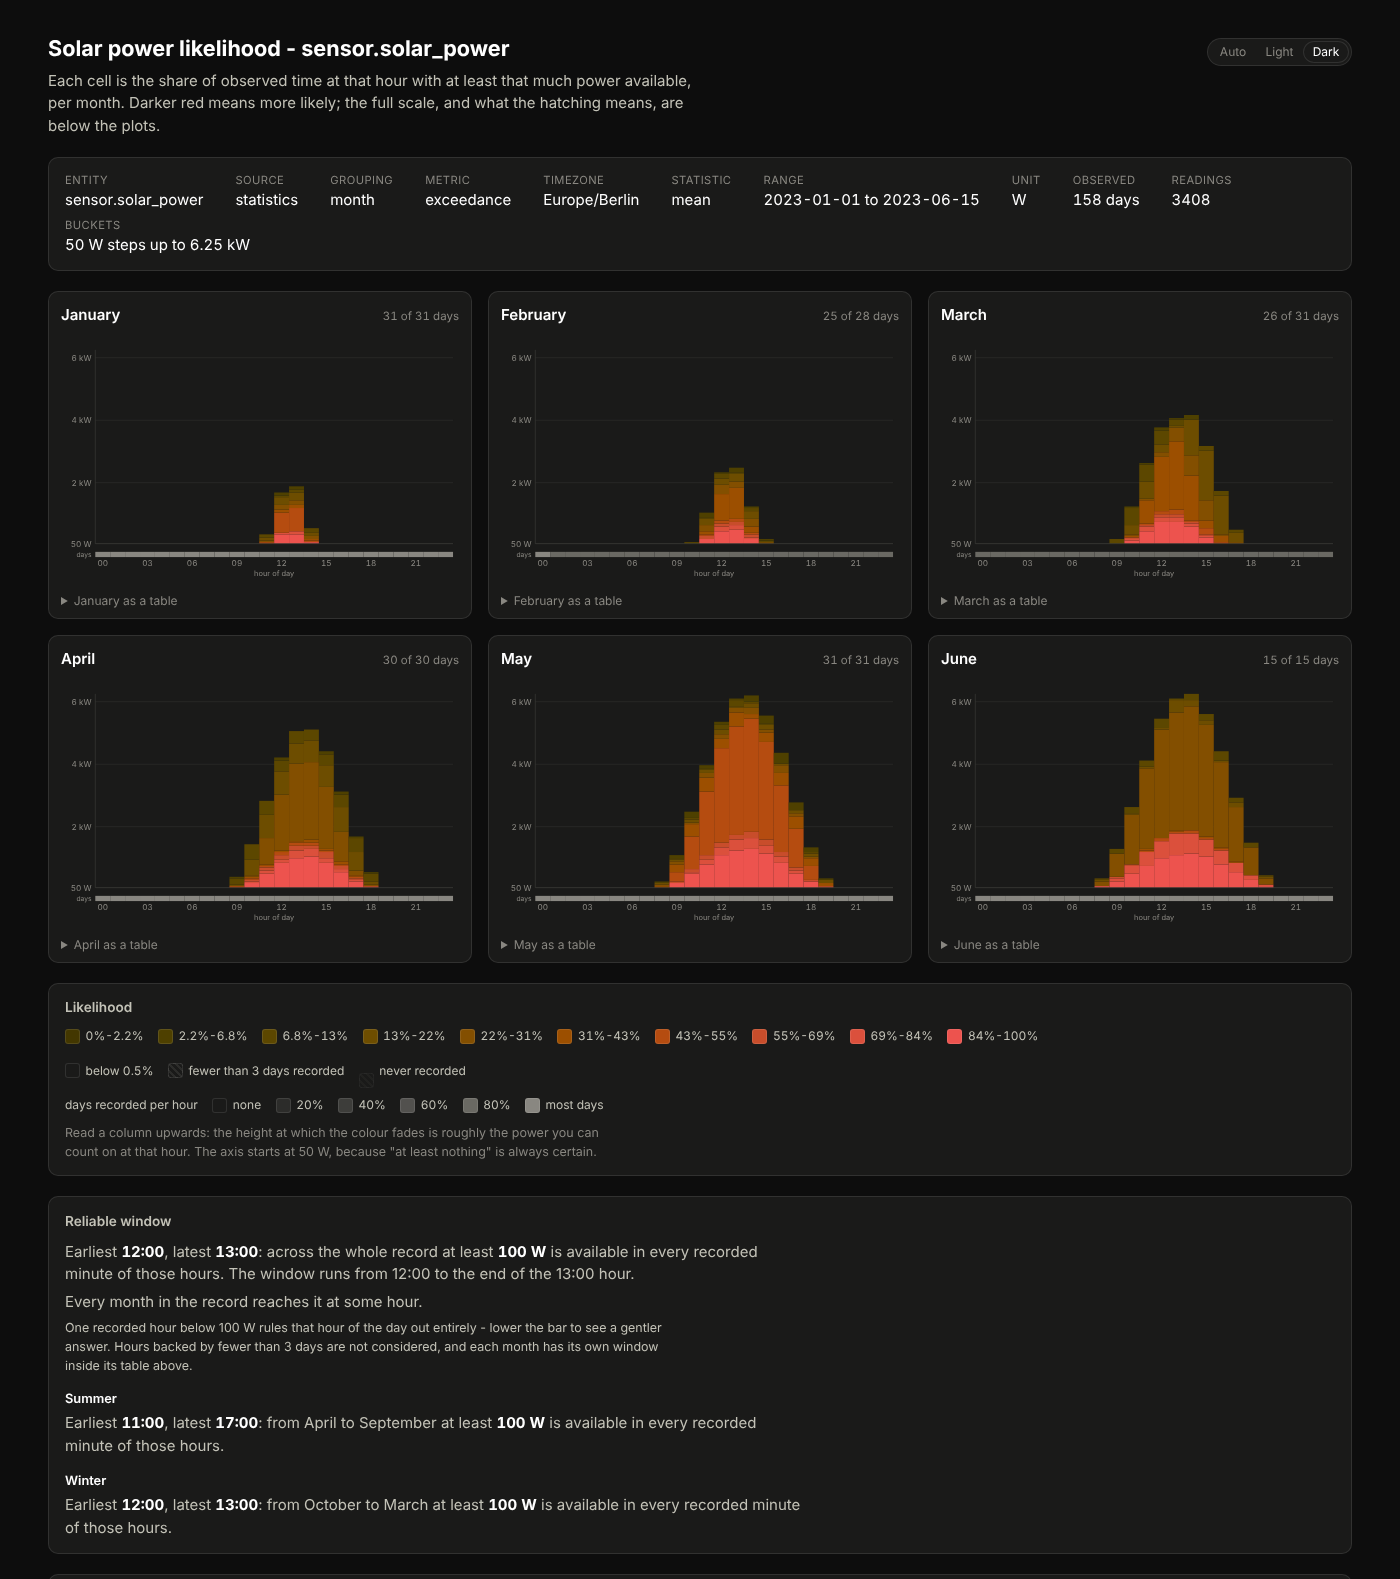
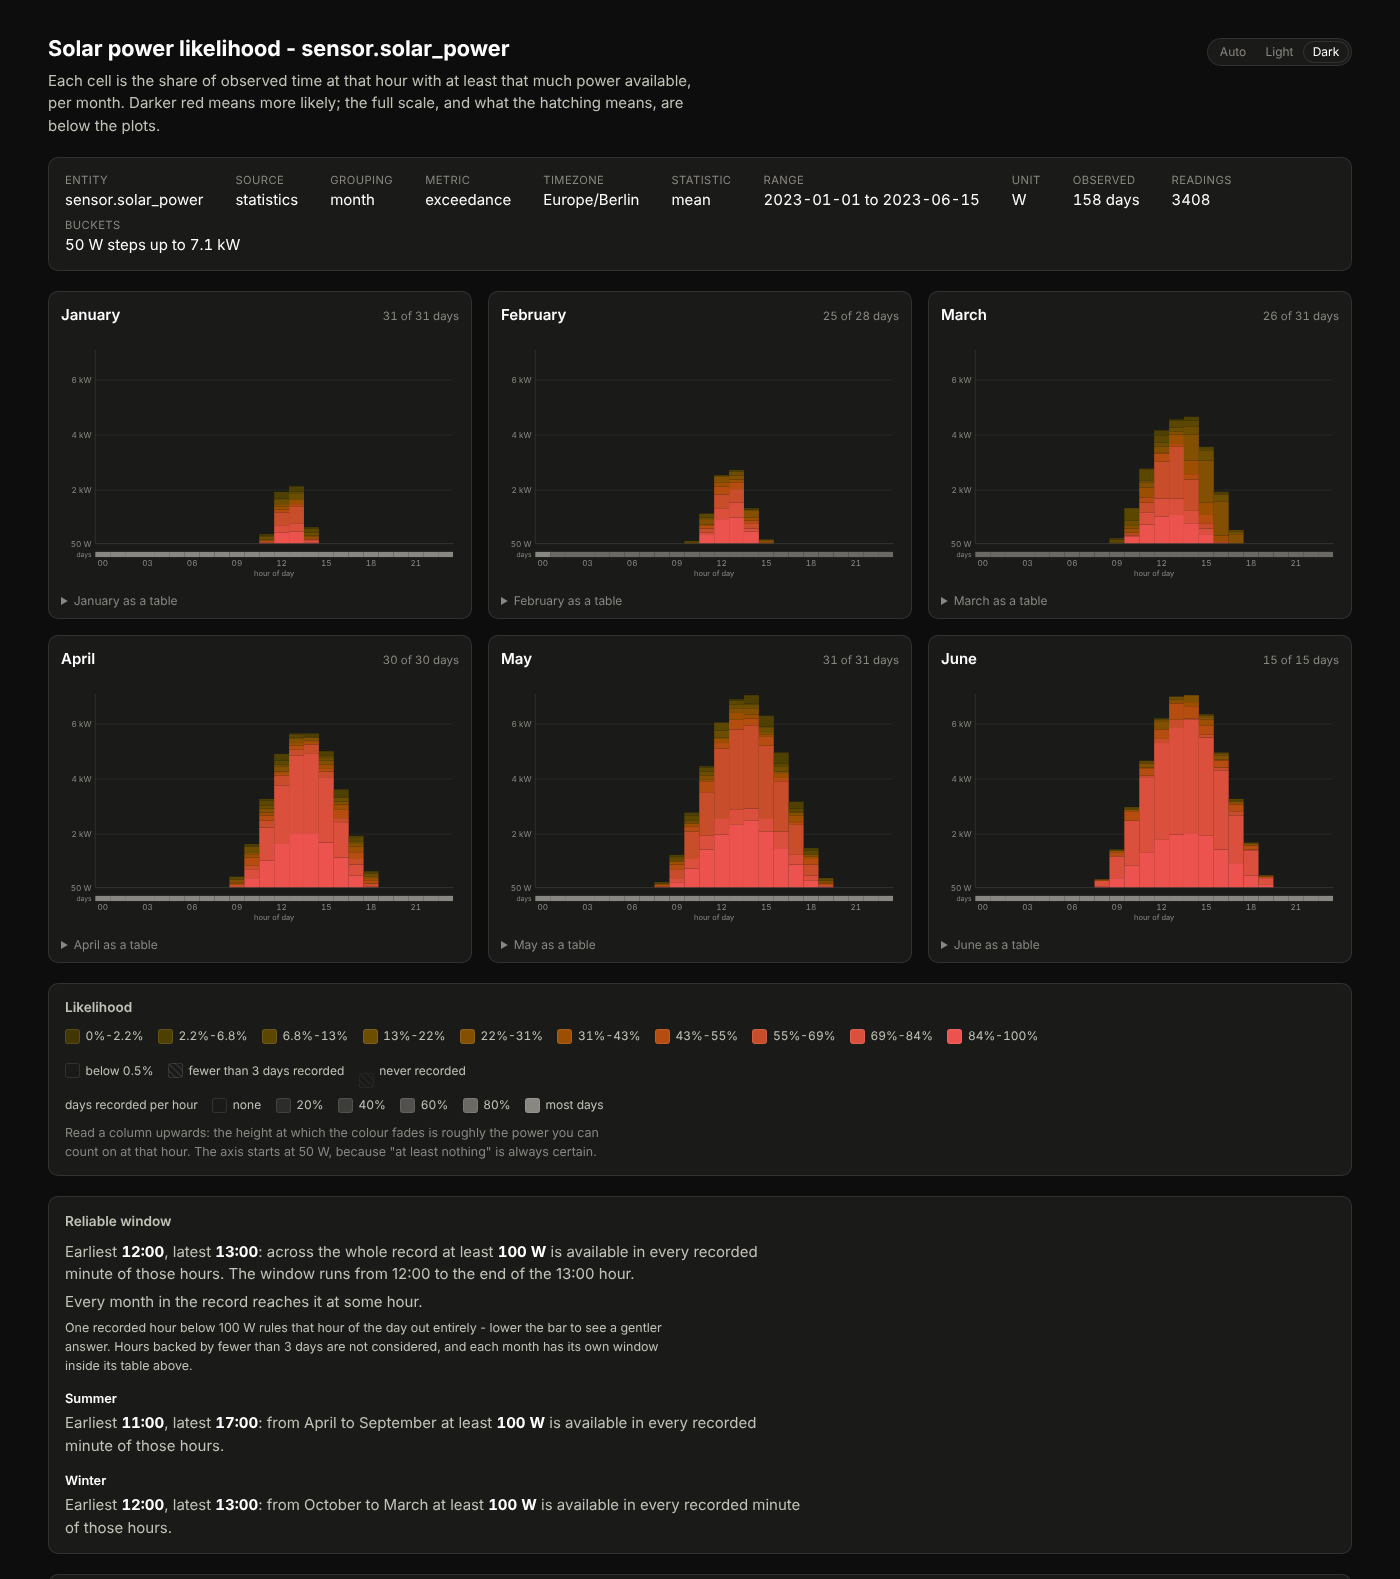
Fix the synthetic generator's skew and regenerate the figures
Lcg::next_unit was meant to draw from [0, 1) but divided next_u32's 31
bits by u32::MAX, so it never passed one half. Every probability in the
synthetic solar and grid histories was off with it: "roughly one day in
three is overcast" came out two in three, the ±10% jitter on each slot
only ever lowered it, and the household's base load sat at the bottom
of its range. It now divides by 2^31, and across three seeds 31-35% of
the days are overcast.

next_fraction, added for the thermometers as the correct version, is
the same thing now and goes; the thermometer data is unchanged by this,
so the heating figures stay as they were.

The demo database is sunnier as a result, and every figure taken from
it is regenerated: the heatmap's sample output and both screenshots, and
the payback tool's sample output and screenshot. The payback answer
moves the most - with a third of the days overcast rather than two
thirds there is more surplus to store, and the best size goes from
3 kWh paying back in 11.7 years to 7 kWh in 8.9.

Two figures that had gone stale before this are corrected on the way:
the heatmap's sample report is 340 kB, not 159 kB (330 kB even on the
old data, since the table views and readouts were added), and the
claim that two years load, aggregate and render "in under 10 ms" now
says what was measured - about 25 ms on four cores, almost all of it
reading SQLite, with the aggregation itself about 2 ms. The payback
[…]

diff --git a/crates/ha-testdb/src/lib.rs b/crates/ha-testdb/src/lib.rs
@@ -383,6 +383,7 @@ impl Lcg {
         Self(seed)
     }
 
+    /// The next 31 bits: the top of the state, where an LCG's bits are best.
     pub fn next_u32(&mut self) -> u32 {
         self.0 = self
             .0
@@ -391,18 +392,12 @@ impl Lcg {
         (self.0 >> 33) as u32
     }
 
-    /// Uniform float in `[0, 0.5]` - not `[0, 1)`, as it was meant to be.
-    ///
-    /// [`Lcg::next_u32`] keeps 31 bits, so dividing by `u32::MAX` never passes one half.
-    /// The synthetic solar and grid histories were generated with it, and the tests and
-    /// the README's figures are built on them as they are, so it stays; new generators use
-    /// [`Lcg::next_fraction`].
-    pub fn next_unit(&mut self) -> f64 {
-        f64::from(self.next_u32()) / f64::from(u32::MAX)
-    }
-
     /// Uniform float in `[0, 1)`.
-    pub fn next_fraction(&mut self) -> f64 {
+    ///
+    /// Divided by 2^31, the span of [`Lcg::next_u32`]. It used to divide by `u32::MAX`,
+    /// which kept every draw below one half: two synthetic days in three came out
+    /// overcast rather than one in three.
+    pub fn next_unit(&mut self) -> f64 {
         f64::from(self.next_u32()) / f64::from(1u32 << 31)
     }
 }
@@ -679,7 +674,7 @@ pub fn synthetic_outside_celsius(ts: i64, weather: f64) -> f64 {
 /// following the outside temperature at a fraction of its swing.
 pub fn synthetic_room_celsius(setpoint: f64, outside: f64, rng: &mut Lcg) -> f64 {
     let drift = 0.6 * (outside - (setpoint - 6.0)).max(0.0);
-    setpoint + drift + 0.4 * (rng.next_fraction() - 0.5)
+    setpoint + drift + 0.4 * (rng.next_unit() - 0.5)
 }
 
 /// Write the outdoor thermometer and every room in [`ROOMS`] as hourly means in °C, and
@@ -708,7 +703,7 @@ pub fn insert_synthetic_temperatures(
     let mut weather = 0.0;
     conn.execute_batch("BEGIN").expect("begin transaction");
     for day in 0..days {
-        weather = 0.75 * weather + 5.0 * (weather_rng.next_fraction() - 0.5);
+        weather = 0.75 * weather + 5.0 * (weather_rng.next_unit() - 0.5);
         if !outages.covers(day) {
             continue;
         }
@@ -871,9 +866,9 @@ mod tests {
     }
 
     #[test]
-    fn fractions_cover_the_whole_unit_interval() {
+    fn unit_draws_cover_the_whole_unit_interval() {
         let mut rng = Lcg::new(3);
-        let draws: Vec<f64> = (0..10_000).map(|_| rng.next_fraction()).collect();
+        let draws: Vec<f64> = (0..10_000).map(|_| rng.next_unit()).collect();
         let mean = draws.iter().sum::<f64>() / draws.len() as f64;
         assert!((mean - 0.5).abs() < 0.02, "mean {mean}");
         assert!(draws.iter().all(|draw| (0.0..1.0).contains(draw)));

diff --git a/tools/pv-probability/README.md b/tools/pv-probability/README.md
@@ -42,11 +42,11 @@ pv-probability --db ha.db --entity sensor.solar_power --tz Europe/Berlin
 It finishes by printing the command that opens the report, ready to paste:
 
 ```
-wrote pv-probability.html: 12 facets from 17520 readings (730 d), 159 kB, 9.65ms
+wrote pv-probability.html: 12 facets from 17520 readings (730 d), 340 kB, 26.60ms
 reliable window: 12:00 to the end of the 13:00 hour - at least 100 W in every recorded minute
   summer (April to September): 11:00 to the end of the 16:00 hour - at least 100 W in every recorded minute
   winter (October to March): 12:00 to the end of the 13:00 hour - at least 100 W in every recorded minute
-covers 2023-01-01 to 2024-12-31 (731 days): 730 days observed, no outage over 24 h
+covers 2023-01-01 to 2024-12-31 (731 days): 731 days observed (730 of them full days), no outage over 24 h
 
 open /home/you/pv-probability.html
 ```
@@ -233,7 +233,8 @@ gives the same numbers as text.
 Reading is single-threaded (SQLite), everything after it is parallel: samples are folded
 into per-facet histograms with rayon (`par_chunks` + `reduce`, since the histograms are
 additive), the power axis quantile uses a parallel sort, and the facets are rendered
-concurrently. Two years of hourly statistics (17 520 rows, 129 buckets) load, aggregate
-and render in under 10 ms on a laptop core; the work scales linearly, so even a
+concurrently. Two years of hourly statistics (17 520 rows, 147 buckets) load, aggregate
+and render in about 25 ms on four cores, almost all of it reading SQLite - the
+aggregation itself takes about 2 ms; the work scales linearly, so even a
 five-minute-resolution decade stays interactive. `--threads` caps the pool if you want to
 leave cores free.

diff --git a/tools/energy-storage-payback-period/README.md b/tools/energy-storage-payback-period/README.md
@@ -13,10 +13,10 @@ energy-storage-payback-period --db ha.db \
 ```
 
 ```
-wrote energy-storage-payback-period.html: 20 sizes over 17520 slots of 60 minutes, 25 kB, 36.5ms
-measured 17.97 MWh imported and 4.32 MWh exported
-best payback: 3 kWh for 3,000 EUR saves 257 EUR a year - paid off in 11.7 years
-for 5 years: it would have to cost 1,283 EUR instead of 3,000 EUR (57% less), which the 1,500 EUR base cost alone already exceeds
+wrote energy-storage-payback-period.html: 20 sizes over 17520 slots of 60 minutes, 25 kB, 43.27ms
+measured 14.11 MWh imported and 8.96 MWh exported
+best payback: 7 kWh for 5,000 EUR saves 559 EUR a year - paid off in 8.9 years
+for 5 years: it would have to cost 2,797 EUR instead of 5,000 EUR (44% less), or 185 EUR per kWh on top of the 1,500 EUR base cost
 covers 2023-01-01 to 2024-12-31 (731 days): 731 days paired (730 of them full days), 0 outages over 24 h
 
 open /home/you/energy-storage-payback-period.html
@@ -125,7 +125,7 @@ energy-storage-payback-period --db ha.db \
 The tool reads its two sensors on two connections at once, folds each into slots
 with the same `par_chunks` + `reduce` shape, and then simulates every battery size in
 parallel. A battery's state of charge makes one simulation inherently sequential, so the
-sizes are the unit of parallelism: 391 sizes over two years of hourly slots take 48 ms on
-four cores against 186 ms on one, so a sweep as fine as `--size-step 0.1` costs no more
+sizes are the unit of parallelism: 391 sizes over two years of hourly slots take 52 ms on
+four cores against 209 ms on one, so a sweep as fine as `--size-step 0.1` costs no more
 wall-clock time than a coarse one until it runs out of cores.
 
